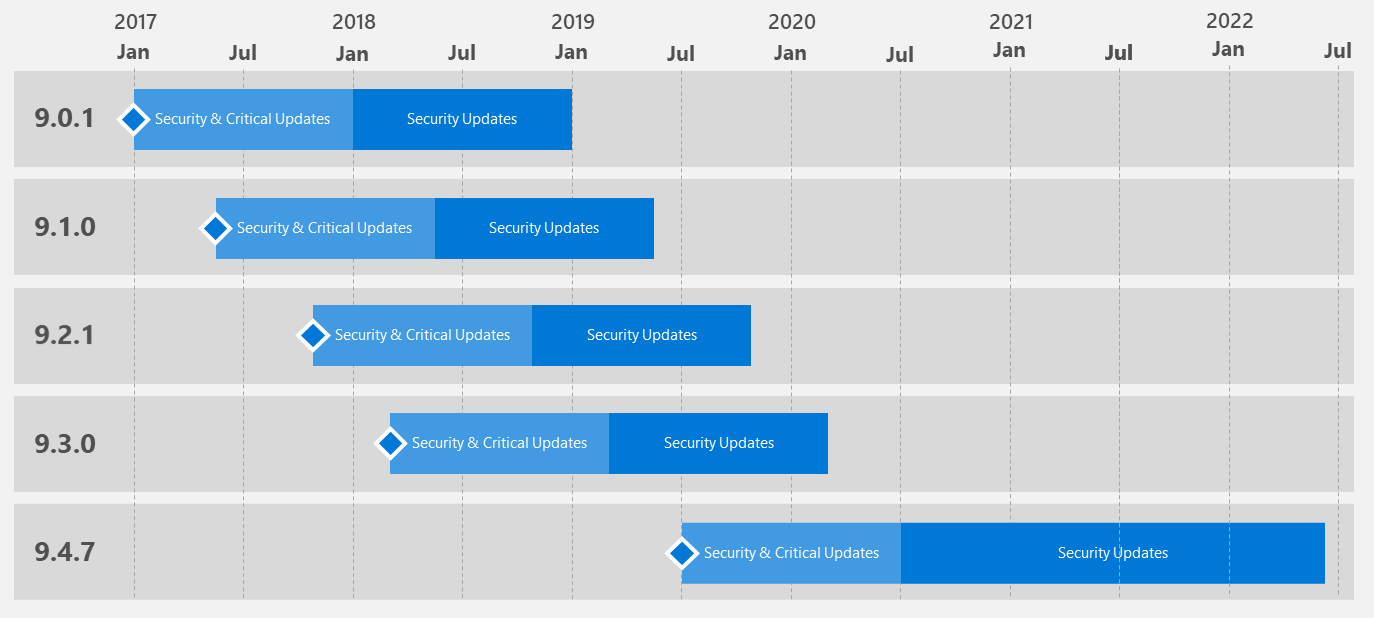
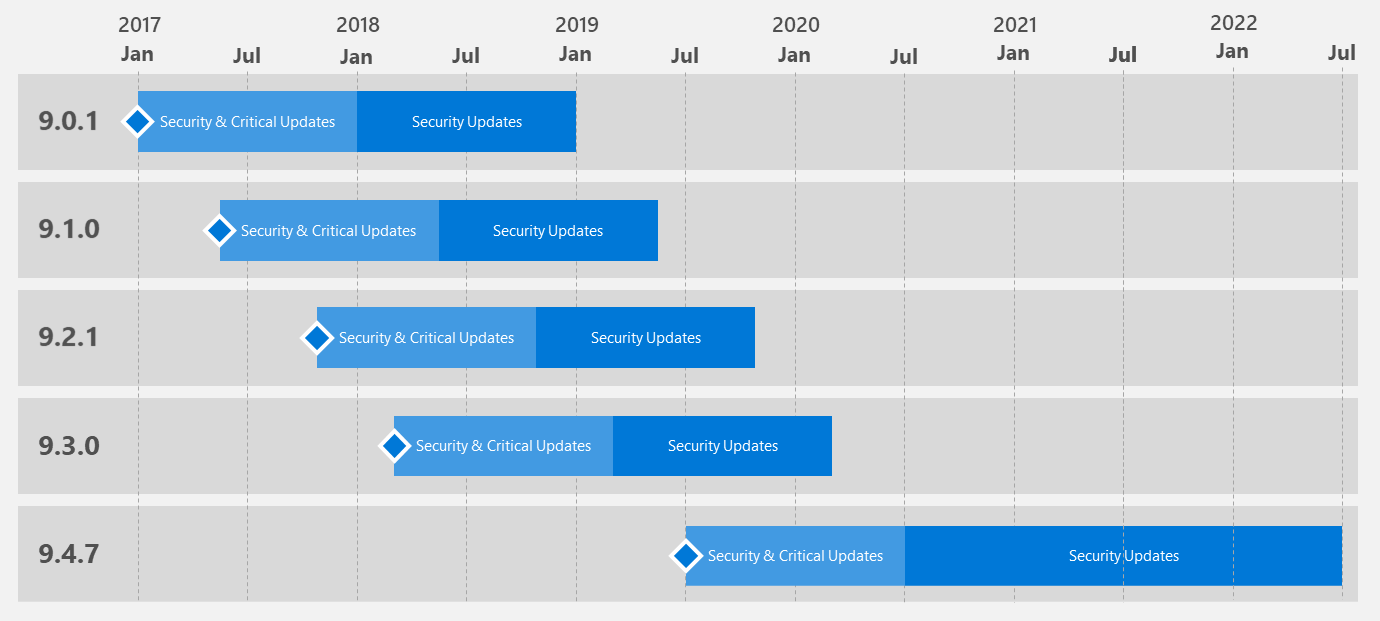
MLServer: Change support end date to 7/1

diff --git a/microsoft-r/resources-servicing-support.md b/microsoft-r/resources-servicing-support.md
@@ -27,7 +27,7 @@ ms.prod: "mlserver"
 
 [!INCLUDE [retirement banner](~/includes/machine-learning-server-retirement.md)]
 
-Machine Learning Server 9.4.7 is supported until June 30, 2022. All other versions are no longer supported.
+Machine Learning Server 9.4.7 is supported until July 1, 2022. All other versions are no longer supported.
 
 For more information, see [What's happening to Machine Learning Server?](what-is-happening-to-machine-learning-server.md)
 
@@ -40,7 +40,7 @@ At the end of a version’s life cycle, the software is removed from the Microso
 
 | Version History               | Availability | Support End Date |
 |:-----------------------------:|:------------:|:----------------:|
-| Machine Learning Server 9.4.7 | 7/30/2019    | 6/30/2022         |
+| Machine Learning Server 9.4.7 | 7/30/2019    | 7/1/2022         |
 | Machine Learning Server 9.3.0 | 3/1/2018     | 3/1/2020         |
 | Machine Learning Server 9.2.1 | 10/1/2017    | 10/1/2019        |
 | Microsoft R Server 9.1.0      | 5/1/2017     | 5/1/2019         |

diff --git a/microsoft-r/what-is-happening-to-machine-learning-server.md b/microsoft-r/what-is-happening-to-machine-learning-server.md
@@ -13,7 +13,7 @@ ms.prod: "mlserver"
 
 # What's happening to Machine Learning Server?
 
-The support for [Microsoft Machine Learning Server 9.4.7](what-is-machine-learning-server.md) will **end on June 30, 2022**. For more information, see [Support timeline for Microsoft R Server & Machine Learning Server](resources-servicing-support.md)
+The support for [Microsoft Machine Learning Server 9.4.7](what-is-machine-learning-server.md) will **end on July 1, 2022**. For more information, see [Support timeline for Microsoft R Server & Machine Learning Server](resources-servicing-support.md)
 
 This article explains options for replacing the functionality of Machine Learning Server and migration strategies for code and data to other platforms.
 

diff --git a/microsoft-r/includes/machine-learning-server-retirement.md b/microsoft-r/includes/machine-learning-server-retirement.md
@@ -7,4 +7,4 @@ ms.date: 06/30/2021
 ---
 
 > [!IMPORTANT]
-> This content is being retired and may not be updated in the future. The support for Machine Learning Server will end on June 30, 2022. For more information, see [What's happening to Machine Learning Server?](../what-is-happening-to-machine-learning-server.md)
+> This content is being retired and may not be updated in the future. The support for Machine Learning Server will end on July 1, 2022. For more information, see [What's happening to Machine Learning Server?](../what-is-happening-to-machine-learning-server.md)
